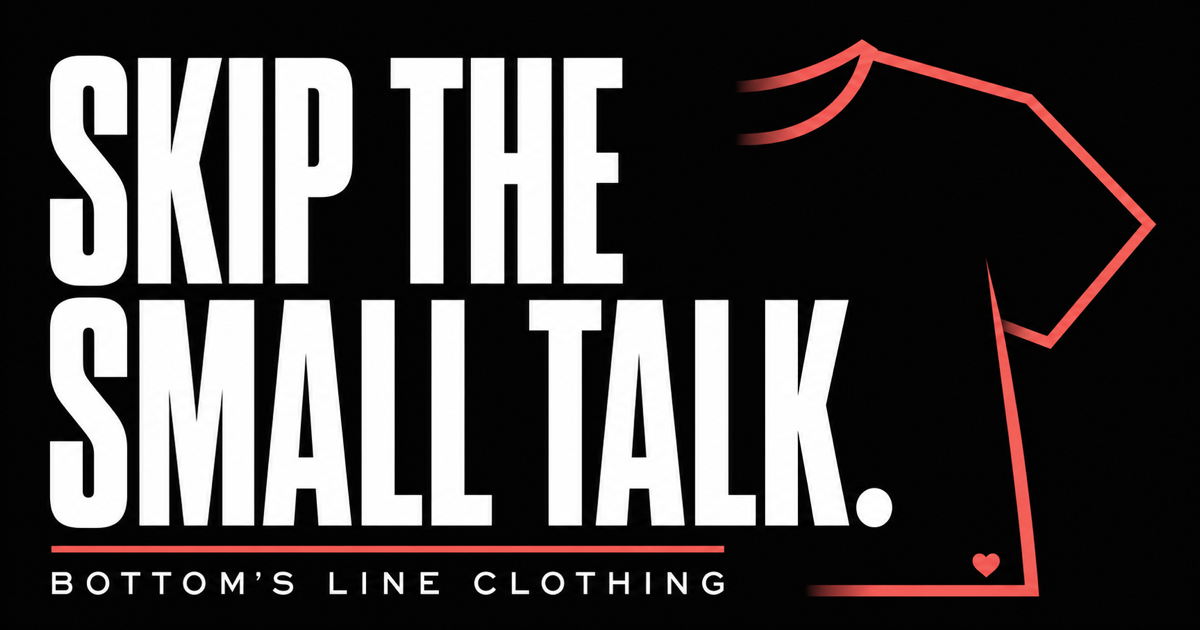
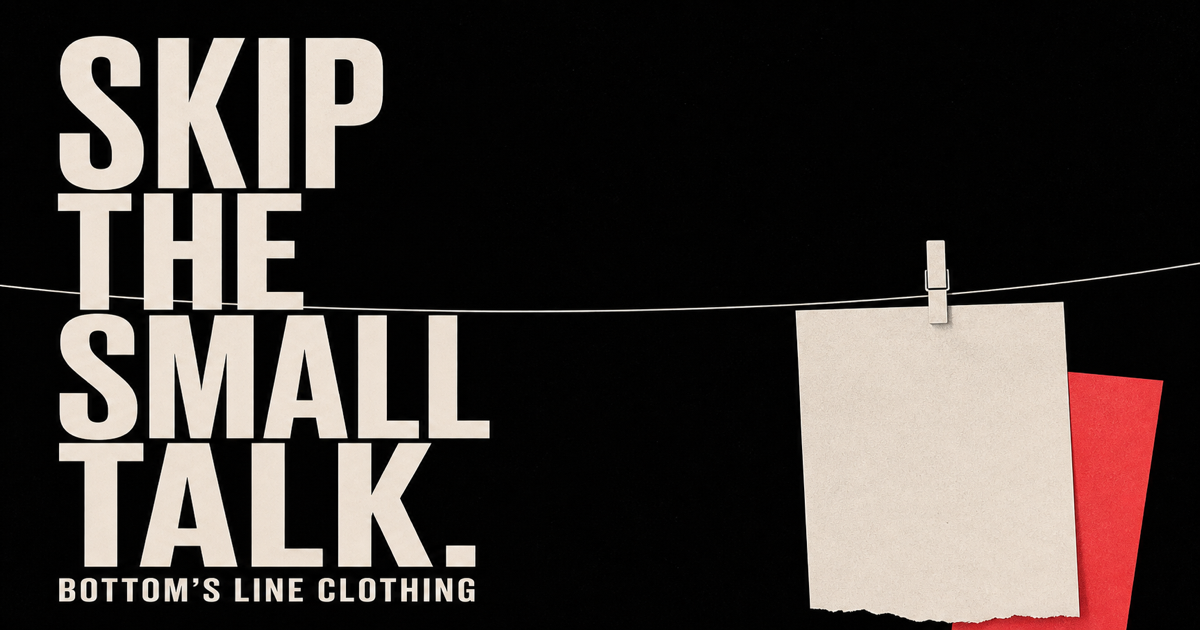
Add editorial clothesline brand system

diff --git a/app/globals.css b/app/globals.css
@@ -33,6 +33,8 @@ h1 em,h2 em,.manifesto em,.footer__top em { color:var(--coral); font-family:Geor
 .button:hover { background:var(--white); border-color:var(--white); transform:translateY(-2px); }
 .hero__visual { position:relative; min-height:600px; display:grid; place-items:center; background:radial-gradient(circle at 50% 45%,#2c2a28 0,#171717 48%,#101010 68%); overflow:hidden; }
 .hero__visual::before { content:'BOTTOM’S LINE'; position:absolute; color:rgba(255,255,255,.035); font-weight:900; letter-spacing:-.08em; font-size:clamp(70px,12vw,190px); line-height:.7; text-align:center; transform:rotate(-8deg); }
+.hero__line { position:absolute; z-index:3; top:11%; left:-2%; width:104%; height:1px; background:rgba(255,255,255,.5); transform:rotate(-1.2deg); }
+.hero__line .clothespin { left:51%; top:-8px; }
 .scribble { position:absolute; z-index:2; font-size:9px; line-height:1.5; letter-spacing:2px; font-weight:700; }
 .scribble--top { top:8%; right:7%; color:var(--coral); transform:rotate(7deg); }
 .scribble--bottom { bottom:7%; left:6%; color:var(--muted); transform:rotate(-5deg); }
@@ -51,6 +53,14 @@ h1 em,h2 em,.manifesto em,.footer__top em { color:var(--coral); font-family:Geor
 .shirt--charcoal .shirt__print { color:var(--white); }
 .shirt--red { --shirt-color:#c82c22; }
 
+.clothespin { --pin:#d4b17b; position:absolute; z-index:8; top:14px; left:50%; width:15px; height:47px; border-radius:3px 3px 2px 2px; background:linear-gradient(90deg,#9a7549 0 14%,var(--pin) 15% 72%,#b68c58 73%); box-shadow:2px 4px 7px rgba(0,0,0,.35); transform:translateX(-50%) rotate(2deg); transform-origin:50% 10%; }
+.clothespin::before { content:''; position:absolute; left:1px; top:17px; width:13px; height:6px; border-radius:50%; border:1px solid rgba(49,35,21,.75); background:#87643f; }
+.clothespin::after { content:''; position:absolute; left:3px; bottom:-3px; width:9px; height:14px; background:var(--pin); clip-path:polygon(0 0,100% 0,66% 100%,52% 45%,35% 100%); }
+.clothespin i { position:absolute; inset:4px auto auto 6px; width:1px; height:11px; background:rgba(70,46,24,.45); }
+.clothespin--compact { top:-11px; width:10px; height:31px; }
+.clothespin--compact::before { top:11px; left:0; width:10px; height:5px; }
+.clothespin--compact::after { width:7px; height:9px; }
+
 .ticker { overflow:hidden; border-block:1px solid var(--line); background:var(--coral); color:var(--ink); }
 .ticker div { width:max-content; padding:14px 0; font-size:11px; font-weight:900; letter-spacing:2.5px; white-space:nowrap; animation:marquee 28s linear infinite; }
 .ticker span { margin-inline:24px; }
@@ -59,11 +69,20 @@ h1 em,h2 em,.manifesto em,.footer__top em { color:var(--coral); font-family:Geor
 .section-heading { display:flex; justify-content:space-between; align-items:end; margin-bottom:clamp(52px,7vw,100px); }
 .section-heading h2 { font-size:clamp(58px,7.2vw,108px); }
 .section-heading>p { max-width:200px; margin:0 0 8px; color:var(--muted); font-family:Georgia,serif; font-style:italic; font-size:17px; }
-.product-grid { display:grid; grid-template-columns:repeat(4,1fr); gap:18px; }
-.product-card__image { position:relative; display:grid; place-items:center; aspect-ratio:.82; overflow:hidden; background:#161616; border:1px solid var(--line); }
-.product-card:nth-child(even) .product-card__image { background:#1c1b1a; }
-.product-card:hover .shirt { transform:rotate(-4deg) scale(1.06); }
-.product-card__number { position:absolute; top:18px; left:18px; color:#5f5c58; font-family:Georgia,serif; font-style:italic; font-size:12px; }
+.product-rail { position:relative; }
+.product-grid { --rail-y:15px; position:relative; display:grid; grid-template-columns:repeat(4,1fr); gap:clamp(18px,2.5vw,38px); padding-top:0; }
+.product-grid::before { content:''; position:absolute; z-index:5; top:var(--rail-y); left:-1.5%; width:103%; height:1px; background:rgba(255,255,255,.58); box-shadow:0 1px rgba(0,0,0,.45); transform:rotate(-.12deg); }
+.product-card { --hang-rotate:-.7deg; min-width:0; }
+.product-card:nth-child(2) { --hang-rotate:.8deg; }
+.product-card:nth-child(3) { --hang-rotate:-.25deg; }
+.product-card:nth-child(4) { --hang-rotate:.55deg; }
+.product-card__image { position:relative; height:clamp(350px,35vw,510px); display:grid; place-items:center; padding-top:45px; transform:rotate(var(--hang-rotate)); transform-origin:50% 16px; transition:transform .45s cubic-bezier(.2,.8,.2,1); }
+.product-card__media { width:100%; height:100%; display:grid; place-items:center; background:linear-gradient(180deg,rgba(255,255,255,.018),transparent 60%); }
+.product-card:hover .product-card__image { transform:rotate(calc(var(--hang-rotate) * -1.15)); }
+.product-card:hover .shirt { transform:rotate(-1.5deg) scale(1.025); }
+.product-card__number { position:absolute; top:65px; left:6px; color:#5f5c58; font-family:Georgia,serif; font-style:italic; font-size:12px; }
+.product-card .clothespin { top:-7px; }
+.product-card .shirt { width:72%; max-width:250px; }
 .product-card__meta { display:flex; justify-content:space-between; margin-top:22px; color:var(--coral); text-transform:uppercase; font-size:9px; font-weight:800; letter-spacing:1.7px; }
 .product-card__meta p { margin:0; }
 .product-card__meta span { color:var(--muted); }
@@ -77,9 +96,21 @@ h1 em,h2 em,.manifesto em,.footer__top em { color:var(--coral); font-family:Geor
 .manifesto__mark { position:absolute; top:-8%; left:0; color:var(--coral); font-family:Georgia,serif; font-size:200px; line-height:1; }
 .manifesto__aside { position:absolute; right:0; bottom:2%; text-align:left!important; color:#77736d; font-family:Georgia,serif!important; font-style:italic; font-size:14px!important; line-height:1.4!important; text-transform:none!important; letter-spacing:0!important; }
 
+.clothesline-divider { position:relative; height:1px; background:rgba(255,255,255,.28); transform:rotate(.12deg); }
+.clothesline-divider .clothespin { left:15%; }
+.clothesline-divider>span:last-child { position:absolute; left:calc(15% + 18px); top:12px; color:#77736d; font-family:Georgia,serif; font-style:italic; font-size:10px; letter-spacing:.4px; transform:rotate(-2deg); }
+
 .story { display:grid; grid-template-columns:1fr 1.7fr; gap:10vw; }
 .story__side { display:flex; flex-direction:column; justify-content:space-between; }
-.story__stamp { align-self:center; display:grid; place-items:center; width:150px; aspect-ratio:1; border:2px solid var(--coral); border-radius:50%; color:var(--coral); text-align:center; font-size:9px; font-weight:900; letter-spacing:2px; transform:rotate(-10deg); }
+.pinned-editorial { position:relative; width:min(100%,320px); margin:40px auto 0; padding:13px 13px 40px; background:#ece7dc; color:var(--ink); box-shadow:0 20px 60px rgba(0,0,0,.35); transform:rotate(-2.2deg); }
+.pinned-editorial .clothespin { top:-24px; left:53%; }
+.pinned-editorial__image { position:relative; min-height:300px; display:grid; place-items:center; overflow:hidden; background:#171717; }
+.pinned-editorial__image::after { content:''; position:absolute; inset:0; background:linear-gradient(112deg,transparent 38%,rgba(255,255,255,.05) 48%,transparent 58%); }
+.pinned-editorial__ghost { position:absolute; color:rgba(255,255,255,.04); font-size:170px; font-weight:900; letter-spacing:-.12em; }
+.pinned-editorial .shirt { width:58%; filter:drop-shadow(0 20px 20px rgba(0,0,0,.55)); }
+.pinned-editorial .shirt__print { font-size:16px; }
+.pinned-editorial figcaption { position:absolute; left:16px; right:16px; bottom:12px; margin:0; color:#4b4843; font-family:Georgia,serif; font-size:10px; font-style:italic; }
+.pinned-editorial figcaption span { color:var(--coral); font-family:Arial,Helvetica,sans-serif; font-style:normal; font-weight:900; letter-spacing:1px; text-transform:uppercase; }
 .story__copy h2 { font-size:clamp(60px,8vw,120px); margin-bottom:58px; }
 .story__copy>p { max-width:780px; color:#cfccc5; font-family:Georgia,serif; font-size:clamp(20px,2.2vw,31px); line-height:1.42; }
 .signature { display:block; margin-top:44px; color:var(--coral); font-family:Georgia,serif; font-style:italic; }
@@ -123,7 +154,9 @@ footer { padding:110px 0 28px; background:var(--coral); color:var(--ink); }
 @media (max-width:1000px) {
   .hero { grid-template-columns:1fr; }
   .hero__visual { min-height:560px; }
-  .product-grid { grid-template-columns:repeat(2,1fr); gap:64px 18px; }
+  .product-rail { width:calc(100% + ((100vw - 100%)/2)); overflow-x:auto; overscroll-behavior-inline:contain; scrollbar-color:var(--coral) transparent; scrollbar-width:thin; }
+  .product-grid { width:1040px; grid-template-columns:repeat(4,1fr); gap:26px; padding-right:40px; padding-bottom:24px; }
+  .product-card__image { height:410px; }
   .story { grid-template-columns:1fr 2fr; gap:6vw; }
   .signup { grid-template-columns:1fr; }
   .signup__form { margin-top:40px; }
@@ -141,14 +174,16 @@ footer { padding:110px 0 28px; background:var(--coral); color:var(--ink); }
   .shirt--featured { width:70%; }
   .section-heading { align-items:start; flex-direction:column; gap:20px; }
   .section-heading>p { margin-left:46px; }
-  .product-grid { grid-template-columns:1fr; gap:62px; }
-  .product-card__image { aspect-ratio:1/1.08; }
+  .products { overflow:hidden; }
+  .product-rail { width:calc(100% + 15px); margin-right:-15px; }
+  .product-grid { width:930px; gap:20px; padding-right:30px; }
+  .product-card__image { height:360px; }
   .product-card h3 { min-height:0; }
   .manifesto__inner { min-height:430px; }
   .manifesto__inner>p { font-size:13vw; }
   .manifesto__mark { font-size:120px; }
   .story { grid-template-columns:1fr; }
-  .story__stamp { display:none; }
+  .pinned-editorial { width:min(84vw,310px); margin:34px 0 65px 8vw; }
   .story__copy h2 { margin-top:20px; margin-bottom:40px; }
   .collection-row { grid-template-columns:42px 1fr 30px; min-height:92px; }
   .collection-row p { display:none; }
@@ -166,4 +201,5 @@ footer { padding:110px 0 28px; background:var(--coral); color:var(--ink); }
   html { scroll-behavior:auto; }
   .ticker div { animation:none; }
   *,*::before,*::after { transition-duration:.01ms!important; }
+  .product-card:hover .product-card__image { transform:rotate(var(--hang-rotate)); }
 }

diff --git a/app/page.tsx b/app/page.tsx
@@ -25,6 +25,23 @@ function Shirt({ art, tone, featured = false }: { art: string[]; tone: string; f
   );
 }
 
+function Clothespin({ compact = false }: { compact?: boolean }) {
+  return <span className={`clothespin ${compact ? 'clothespin--compact' : ''}`} aria-hidden="true"><i /></span>;
+}
+
+function PinnedEditorial() {
+  return (
+    <figure className="pinned-editorial">
+      <Clothespin />
+      <div className="pinned-editorial__image">
+        <span className="pinned-editorial__ghost">BL</span>
+        <Shirt art={['FOUND', 'EACH', 'OTHER']} tone="cream" />
+      </div>
+      <figcaption><span>proof of concept</span> / phone photo goes here</figcaption>
+    </figure>
+  );
+}
+
 export default function Home() {
   return (
     <main>
@@ -43,6 +60,7 @@ export default function Home() {
           <a className="button button--primary" href="#shop">Shop the collection <span aria-hidden="true">↗</span></a>
         </div>
         <div className="hero__visual">
+          <span className="hero__line" aria-hidden="true"><Clothespin /></span>
           <span className="scribble scribble--top">GOOD FROM<br />EVERY ANGLE</span>
           <Shirt art={['SUPPORT', 'LOCAL', 'BOTTOMS']} tone="coral" featured />
           <span className="scribble scribble--bottom">Wear responsibly.<br />Or don’t.</span>
@@ -56,15 +74,21 @@ export default function Home() {
           <div><p className="eyebrow"><span /> Featured troublemakers</p><h2>Wear your<br /><em>inside voice.</em></h2></div>
           <p>Four ways to make eye contact easier.</p>
         </div>
-        <div className="product-grid">
-          {products.map((product, index) => (
-            <article className="product-card" key={product.name}>
-              <div className="product-card__image"><span className="product-card__number">0{index + 1}</span><Shirt art={product.art} tone={product.tone} /></div>
-              <div className="product-card__meta"><p>{product.label}</p><span>{product.price}</span></div>
-              <h3>{product.name}</h3>
-              <a href="#shop" aria-label={`Read the shirt: ${product.name}`}>Read the shirt <span aria-hidden="true">↗</span></a>
-            </article>
-          ))}
+        <div className="product-rail" aria-label="Featured shirts hanging on the Bottom’s Line clothesline">
+          <div className="product-grid">
+            {products.map((product, index) => (
+              <article className="product-card" key={product.name}>
+                <div className="product-card__image">
+                  <Clothespin />
+                  <span className="product-card__number">0{index + 1}</span>
+                  <div className="product-card__media"><Shirt art={product.art} tone={product.tone} /></div>
+                </div>
+                <div className="product-card__meta"><p>{product.label}</p><span>{product.price}</span></div>
+                <h3>{product.name}</h3>
+                <a href="#shop" aria-label={`Read the shirt: ${product.name}`}>Read the shirt <span aria-hidden="true">↗</span></a>
+              </article>
+            ))}
+          </div>
         </div>
       </section>
 
@@ -76,8 +100,10 @@ export default function Home() {
         </div>
       </section>
 
+      <div className="clothesline-divider shell" aria-hidden="true"><Clothespin compact /><span>hold this thought</span></div>
+
       <section className="story shell section" id="story">
-        <div className="story__side"><p className="eyebrow"><span /> The origin story</p><span className="story__stamp">ONE JOKE<br />TOO MANY</span></div>
+        <div className="story__side"><p className="eyebrow"><span /> The origin story</p><PinnedEditorial /></div>
         <div className="story__copy">
           <h2>It started with<br /><em>one joke.</em></h2>
           <p>I made one shirt because I couldn’t stop laughing at a joke. Then I made another. Then my friends wanted them. Then strangers did.</p>
